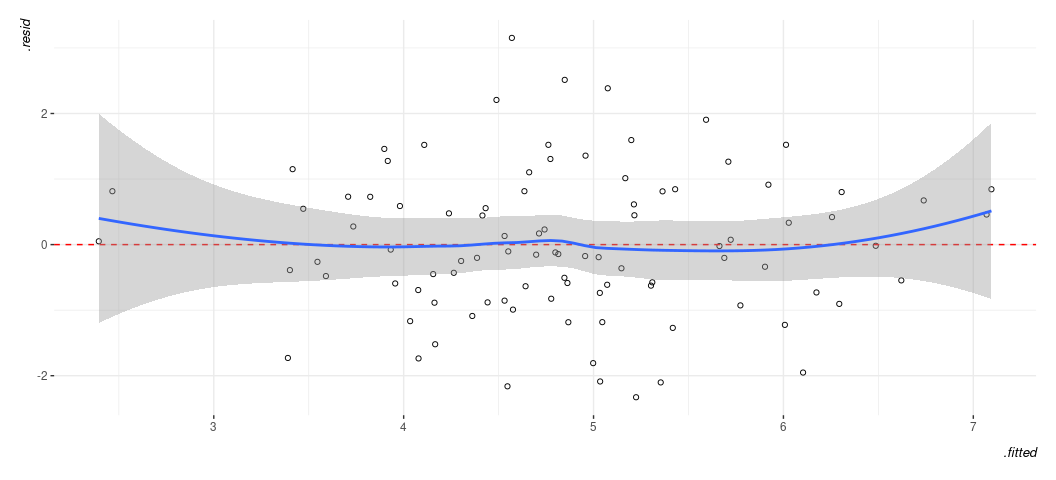
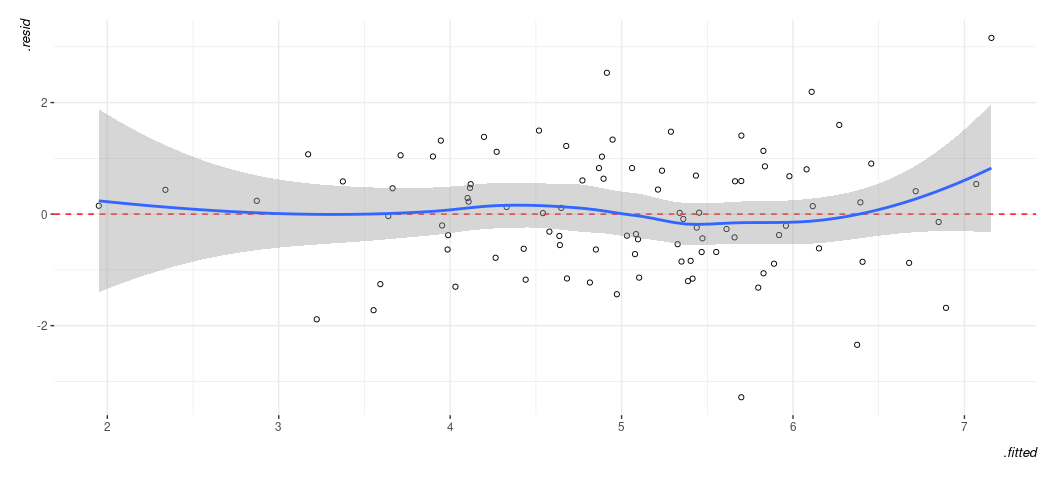
dddjkjlkjk

diff --git a/scripts/linear-models.md b/scripts/linear-models.md
@@ -38,7 +38,6 @@ library(tidyverse)
 #> ✖ dplyr::filter() masks stats::filter()
 #> ✖ dplyr::lag()    masks stats::lag()
 #> ℹ Use the conflicted package (<http://conflicted.r-lib.org/>) to force all conflicts to become errors
-library(stevethemes)
 library(stevemisc)
 #> 
 #> Attaching package: 'stevemisc'
@@ -50,6 +49,9 @@ library(stevemisc)
 #> The following object is masked from 'package:dplyr':
 #> 
 #>     tbl_df
+library(stevethemes) # Optional; gonna use it anyway
+
+theme_set(theme_steve(style = 'generic'))
 ```
 
 ## Load the data
@@ -376,7 +378,6 @@ Now, let’s get to the heart of the matter.
 Data %>%
   ggplot(.,aes(.fitted, .resid)) +
   geom_point(pch = 21) +
-  theme_steve(style='generic') +
   geom_hline(yintercept = 0, linetype="dashed", color="red") +
   geom_smooth(method = "loess")
 #> `geom_smooth()` using formula = 'y ~ x'
@@ -396,7 +397,6 @@ M4 <- lm(y ~ x, A)
 broom::augment(M4) %>%
   ggplot(.,aes(.fitted, .resid)) +
   geom_point(pch = 21) +
-  theme_steve(style='generic') +
   geom_hline(yintercept = 0, linetype="dashed", color="red") +
   geom_smooth(method = "loess")
 #> `geom_smooth()` using formula = 'y ~ x'
@@ -431,8 +431,7 @@ tells you nothing about binary IVs, but binary IVs aren’t the problem
 here.
 
 ``` r
-linloess_plot(M2, pch=21) +
-  theme_steve(style='generic')
+linloess_plot(M2, pch=21) 
 #> `geom_smooth()` using formula = 'y ~ x'
 #> `geom_smooth()` using formula = 'y ~ x'
 ```
@@ -452,8 +451,7 @@ Data %>%
   select(econ_growth, xr) %>%
   gather(var, val) %>%
   ggplot(.,aes(val)) + geom_histogram(bins=40) +
-  facet_wrap(~var, nrow = 2, scales='free') +
-  theme_steve(style='generic')
+  facet_wrap(~var, nrow = 2, scales='free')
 ```
 
 ![](figs/linear-models/unnamed-chunk-14-1.png)<!-- -->
@@ -562,8 +560,7 @@ Data %>%
                 args = list(mean = 0, 
                             sd = sd(Data$.resid, na.rm=T)),
                 linetype="dashed", linewidth=1.1) +
-  geom_density(linewidth = 1.1) +
-  theme_steve(style='generic')
+  geom_density(linewidth = 1.1) 
 ```
 
 ![](figs/linear-models/unnamed-chunk-17-1.png)<!-- -->
@@ -592,8 +589,7 @@ assuredly the case here.
 
 ``` r
 Data %>%
-  ggplot(.,aes(fdi)) + geom_density() +
-  theme_steve(style='generic')
+  ggplot(.,aes(fdi)) + geom_density()
 ```
 
 ![](figs/linear-models/unnamed-chunk-18-1.png)<!-- -->
